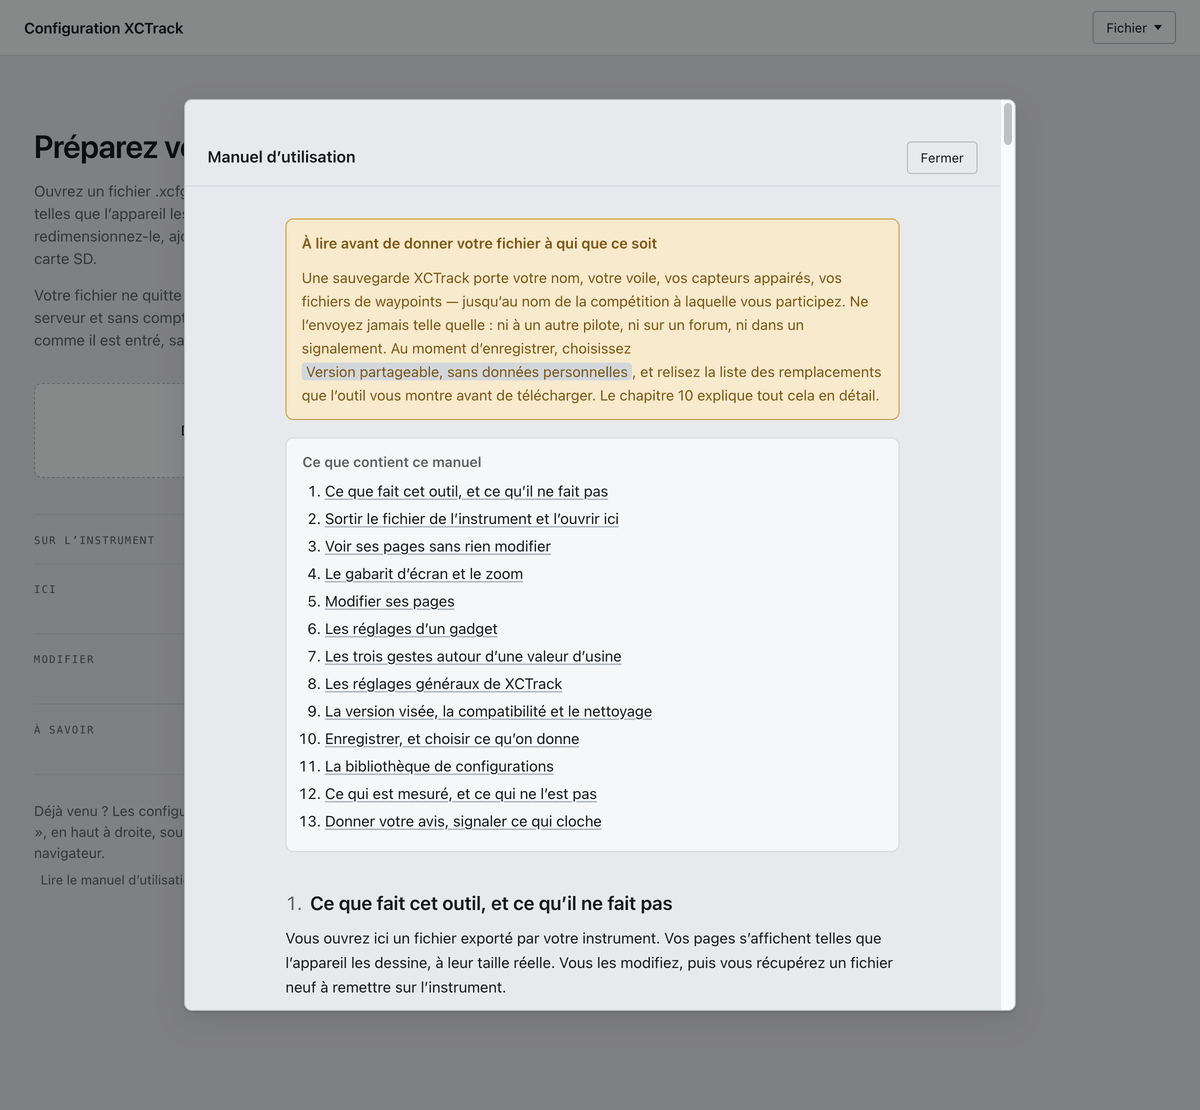
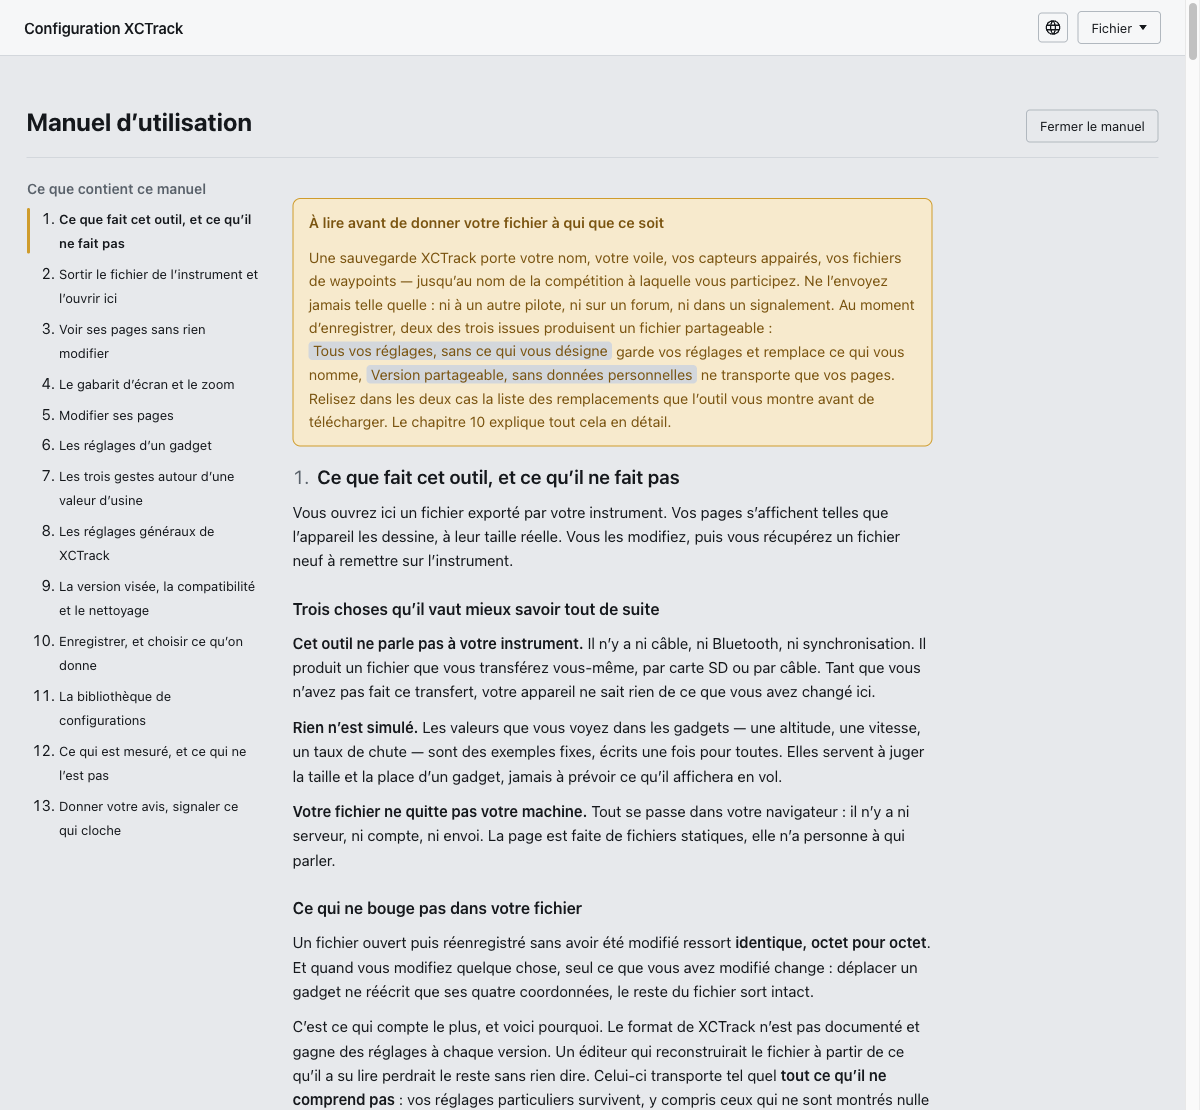
docs: le manuel n'est plus une modale, et son sommaire n'est plus en tête
La documentation le décrivait encore comme une boîte ouverte par-dessus l'écran. C'était
déjà faux depuis qu'il est passé en page ; la colonne du sommaire le rend faux deux fois,
puisque les cinq README annonçaient « puis le sommaire de ses treize chapitres » là où il
est désormais à côté du texte.

- `captures/manuel.png` refaite au cadrage de sa recette (1200 × 1110), qui gagne un
  avertissement : sous 1 024 points la colonne se replie et la capture ne montrerait plus
  ce qu'elle est censée montrer.
- Les cinq README : texte de remplacement et légende remis d'aplomb, recette mise à jour
  dans le seul README français, comme le veut le test qui interdit de la traduire.
- `docs-app/README.md` : la décision « fragment injecté dans une modale » dit maintenant
  pourquoi elle est devenue une page, et une section explique ce qui est le fil du
  fragment et ce qui n'existe qu'à l'écran — c'est le renseignement qui manquerait à qui
  chercherait `.manual__side` dans le HTML.
- Les cinq fragments : leur en-tête disait « boîte modale » et ne prévenait pas qu'un fil
  unique est ce qui fait marcher Ctrl+F.

Aucun texte du manuel lui-même n'est touché : rien de ce qu'il affirme n'a changé.

diff --git a/docs-app/manuel.fr.html b/docs-app/manuel.fr.html
@@ -2,8 +2,13 @@
   Le manuel d'utilisation, en français.
 
   Ce fichier est un FRAGMENT : ni <html>, ni <head>, ni <body>. Il est destiné à être
-  posé dans le corps d'une boîte modale de l'application, qui porte déjà son titre de
-  premier niveau. Le manuel commence donc à <h2>.
+  posé dans le corps d'une page de l'application, qui porte déjà son titre de premier
+  niveau. Le manuel commence donc à <h2>.
+
+  ⚠ C'est UN SEUL FIL : l'avertissement, le sommaire, puis les treize chapitres. C'est ce
+  qui fait que Ctrl+F trouve le manuel entier. Les deux colonnes de l'écran — le sommaire
+  à gauche, le texte à droite — sont construites à l'ouverture par src/ui/manualPage.ts :
+  ne les écrivez pas ici, elles figeraient la mise en page dans cinq fichiers.
 
   Pourquoi du HTML nu plutôt que du Markdown : le manuel s'ouvre DEPUIS l'application,
   qui se charge parfois en 3G au décollage. Du Markdown demanderait un analyseur —

diff --git a/docs-app/manuel.de.html b/docs-app/manuel.de.html
@@ -2,8 +2,10 @@
   Das Handbuch, auf Deutsch.
 
   Diese Datei ist ein FRAGMENT: ohne die Rahmenelemente einer ganzen Seite. Sie wird in
-  den Körper eines Dialogs der Anwendung gelegt, der die Überschrift erster Ebene bereits
-  trägt — das Handbuch beginnt deshalb bei <h2>.
+  den Körper einer Seite der Anwendung gelegt, die die Überschrift erster Ebene bereits
+  trägt — das Handbuch beginnt deshalb bei <h2>. Sie ist EIN einziger Faden — Warnhinweis,
+  Inhaltsverzeichnis, dann die dreizehn Kapitel —, und die zwei Spalten am Bildschirm baut
+  src/ui/manualPage.ts beim Öffnen auf.
 
   Die Quelle der Wahrheit ist `manuel.fr.html`: jede Änderung dort gehört auch hierher.
   Was in <span class="manual__ui"> steht, ist die genaue Beschriftung des Bildschirms und

diff --git a/docs-app/manuel.nl.html b/docs-app/manuel.nl.html
@@ -2,8 +2,10 @@
   De handleiding, in het Nederlands.
 
   Dit bestand is een FRAGMENT: geen <html>, geen <head>, geen <body>. Het wordt in het
-  lichaam van een modaal venster geplaatst dat de titel van het eerste niveau al draagt —
-  de handleiding begint dus bij <h2>.
+  lichaam van een pagina van de toepassing geplaatst die de titel van het eerste niveau al
+  draagt — de handleiding begint dus bij <h2>. Het is ÉÉN draad — waarschuwing,
+  inhoudsopgave, dan de dertien hoofdstukken — en de twee kolommen op het scherm worden bij
+  het openen opgebouwd door src/ui/manualPage.ts.
 
   `manuel.fr.html` is de bron van waarheid: dit bestand is er een vertaling van, met
   dezelfde structuur, dezelfde ankers en dezelfde klassen. Wat tussen

diff --git a/docs-app/manuel.es.html b/docs-app/manuel.es.html
@@ -2,7 +2,9 @@
   El manual de uso, en español.
 
   Este archivo es un FRAGMENTO: sin etiquetas html, head ni body. Se inserta en el cuerpo de
-  una ventana modal que ya lleva su título de primer nivel, así que el manual empieza en <h2>.
+  una página de la aplicación que ya lleva su título de primer nivel, así que el manual
+  empieza en <h2>. Es UN SOLO hilo — el aviso, el índice y luego los trece capítulos — y las
+  dos columnas de la pantalla las construye src/ui/manualPage.ts al abrir.
 
   La fuente de verdad es `manuel.fr.html`: misma estructura, mismas anclas, mismas clases.
 

diff --git a/docs-app/manuel.en.html b/docs-app/manuel.en.html
@@ -2,7 +2,9 @@
   The user manual, in English.
 
   This file is a FRAGMENT: no <html>, no <head>, no <body>. It is dropped into the body of
-  a modal dialog that already carries the top-level title, so the manual starts at <h2>.
+  an application page that already carries the top-level title, so the manual starts at
+  <h2>. It is a SINGLE thread — warning, contents, then the thirteen chapters — and the
+  two columns on screen are built at load time by src/ui/manualPage.ts.
 
   The source of truth is `manuel.fr.html`: same structure, same anchor ids, same classes.
 

diff --git a/docs-app/README.md b/docs-app/README.md
@@ -22,8 +22,11 @@ charge parfois en 3G au décollage. Trois formats étaient possibles :
 - **Une page HTML autonome ouverte dans un autre onglet** — il faudrait l'ajouter aux entrées
   de `vite.config.ts` ou passer par un répertoire `public/`, et le pilote quitterait
   l'application au moment précis où il a besoin d'aide.
-- **Un fragment HTML injecté dans une modale** — retenu. Pas d'analyseur, pas d'entrée de
-  construction supplémentaire, et le pilote garde son fichier ouvert derrière la boîte.
+- **Un fragment HTML injecté dans une vue de l'application** — retenu. Pas d'analyseur, pas
+  d'entrée de construction supplémentaire, et le pilote garde son fichier ouvert derrière.
+  Ce fut d'abord une modale ; treize chapitres ne se lisent pas dans une boîte, et c'est
+  aujourd'hui une **page** : le défilement revient au navigateur, donc la position se garde,
+  la recherche du navigateur fonctionne, et l'impression aussi.
 
 **Le poids.** Le fragment est du texte : il se compresse comme du texte. Importé en `?raw`
 depuis un module chargé par `import()`, il part dans un morceau à part que Vite n'émet qu'au
@@ -32,8 +35,22 @@ les catalogues de langue et les cinq modules déjà branchés à la demande dans
 
 ## Le manuel commence à `<h2>`
 
-La boîte modale porte le `<h1>`. Un second premier niveau dans le fragment casserait la
-navigation par titres d'un lecteur d'écran, qui est le sommaire réel de ce document.
+La page porte le `<h1>`. Un second premier niveau dans le fragment casserait la navigation
+par titres d'un lecteur d'écran, qui est le sommaire réel de ce document.
+
+## Le fil du fragment, les deux colonnes de l'écran
+
+Le fragment est **un seul fil** : l'avertissement, le sommaire, puis les treize chapitres.
+C'est ce qui fait que `Ctrl+F` trouve le manuel entier et que l'impression sort d'un bloc.
+
+À l'ouverture, `src/ui/manualPage.ts` range ce fil en trois boîtes — `.manual__lead`
+(l'avertissement), `.manual__side` (le sommaire) et `.manual__text` (les chapitres) — que
+`manuel.css` met en deux colonnes au-dessus de 64 rem : le sommaire à gauche, collant, avec
+le chapitre courant marqué ; le texte à droite, borné à 640 px. En dessous, tout retombe
+dans le fil, dans l'ordre du document, et une pastille fixe ramène au sommaire.
+
+**Ces trois classes ne s'écrivent jamais dans le HTML** : elles n'existent qu'à l'écran. Un
+fragment qui les porterait figerait la mise en page dans cinq fichiers de mille lignes.
 
 ## Les classes du fragment
 
@@ -43,7 +60,7 @@ raison :
 | Classe | Usage |
 |---|---|
 | `.manual` | La racine du fragment. **Toute** règle de style descend d'elle. |
-| `.manual__toc` | Le sommaire, en tête. Des liens d'ancre, pas un accordéon : `Ctrl+F` doit trouver le manuel entier. |
+| `.manual__toc` | Le sommaire, en tête du fragment — l'écran le déplace ensuite dans sa colonne. Des liens d'ancre, pas un accordéon : `Ctrl+F` doit trouver le manuel entier. |
 | `.manual__rank` | Le numéro d'un chapitre, devant son titre. |
 | `.manual__ui` | Un intitulé **recopié de l'écran**. Pas du gras, pas du code : un fond discret qui dit « cherchez ce mot-là à l'écran ». |
 | `.manual__file` | Un nom de fichier ou une extension, en chasse fixe — le pilote va le comparer caractère par caractère. |

diff --git a/README.md b/README.md
@@ -408,27 +408,31 @@ montré avant le téléchargement, pas après.*
                réelle ne doit apparaître ici : le vérifier à chaque reprise.
 -->
 
-![Le manuel d'utilisation ouvert par-dessus l'écran d'accueil : un avertissement encadré
-« À lire avant de donner votre fichier à qui que ce soit », puis le sommaire de ses
-treize chapitres.](captures/manuel.png)
+![Le manuel d'utilisation en pleine page : à gauche le sommaire de ses treize chapitres,
+à droite l'avertissement encadré « À lire avant de donner votre fichier à qui que ce
+soit », puis le début du chapitre 1.](captures/manuel.png)
 
-*Le manuel s'ouvre par-dessus l'écran, sans rien quitter. Il commence par
-l'avertissement plutôt que par la visite guidée.*
+*Le manuel occupe une page de la largeur de l'éditeur. Il commence par l'avertissement
+plutôt que par la visite guidée, et son sommaire reste à gauche pendant toute la lecture
+— avec le chapitre où l'on se trouve marqué d'un filet.*
 
 <!--
   REFAIRE CETTE CAPTURE — captures/manuel.png (1200 × 1110)
-  Écran ...... la modale « Manuel d'utilisation », en haut de son contenu.
+  Écran ...... la page « Manuel d'utilisation », en haut de son contenu.
   Fichier .... aucun — c'est l'écran d'accueil, avant tout dépôt de fichier. Rien à
                anonymiser, donc, et rien à révéler.
-  État ....... l'encadré « À lire avant de donner votre fichier à qui que ce soit », le
-               sommaire des treize chapitres entier, et le début du chapitre 1 ; aucun
-               bouton au focus (le contour bleu de « Fermer » se voit sinon).
+  État ....... le sommaire des treize chapitres entier dans sa colonne de gauche, avec le
+               filet ambre sur le chapitre 1 ; à droite l'encadré « À lire avant de donner
+               votre fichier à qui que ce soit » et le début du chapitre 1 ; aucun bouton
+               au focus (le contour bleu de « Fermer le manuel » se voit sinon).
+               ⚠ 1 200 points de large : sous 1 024, la colonne se replie dans le fil et
+               la capture ne montrerait plus le sommaire latéral.
   Refaire .... npm run dev -- --port 5179, puis « Lire le manuel d'utilisation » en bas
                de l'accueil — ou, un fichier ouvert, menu « Fichier » puis
                « Manuel d'utilisation… ».
-  Cadrage .... viewport de 1200 × 1110 points CSS : la boîte coupe alors juste après le
-               premier paragraphe du chapitre 1, ce qui se lit comme une page qui
-               continue et non comme une phrase tranchée.
+  Cadrage .... viewport de 1200 × 1110 points CSS : la page coupe alors au milieu du
+               chapitre 1, ce qui se lit comme une page qui continue et non comme une
+               phrase tranchée.
 
   CAPTURE AJOUTÉE — le manuel est arrivé après l'écriture des cinq recettes d'origine et
   n'en avait aucune. C'est le premier écran qu'un lecteur du README voudra reconnaître :

diff --git a/README.de.md b/README.de.md
@@ -290,12 +290,13 @@ dem neuen und dem Grund der Ersetzung.](captures/enregistrer-et-partager.png)
 *Beim Speichern: was die Datei verrät und was ersetzt werden kann — gezeigt vor dem
 Herunterladen, nicht danach.*
 
-![Das Handbuch über dem Startbildschirm geöffnet: ein eingerahmter Warnhinweis „Zu lesen,
-bevor Sie Ihre Datei irgendjemandem geben“, dann das Inhaltsverzeichnis seiner dreizehn
-Kapitel.](captures/manuel.png)
+![Das Handbuch als ganze Seite: links das Inhaltsverzeichnis seiner dreizehn Kapitel,
+rechts ein eingerahmter Warnhinweis „Zu lesen, bevor Sie Ihre Datei irgendjemandem geben“,
+dann der Anfang von Kapitel 1.](captures/manuel.png)
 
-*Das Handbuch öffnet sich über dem Bildschirm, ohne dass man irgendetwas verlässt. Es
-beginnt mit dem Warnhinweis statt mit der Führung.*
+*Das Handbuch nimmt eine Seite in der Breite des Editors ein. Es beginnt mit dem
+Warnhinweis statt mit der Führung, und sein Inhaltsverzeichnis bleibt während der ganzen
+Lektüre links stehen — mit einem Strich bei dem Kapitel, in dem man sich befindet.*
 
 ## Was es nicht kann, und was ungewiss bleibt
 

diff --git a/README.nl.md b/README.nl.md
@@ -282,12 +282,13 @@ nieuwe, en de reden van de vervanging.](captures/enregistrer-et-partager.png)
 *Bij het opslaan: wat het bestand prijsgeeft en wat kan worden vervangen — getoond vóór de
 download, niet erna.*
 
-![De handleiding geopend boven op het startscherm: een omkaderde waarschuwing ‘Lees dit
-voordat u uw bestand aan wie dan ook geeft’, en daarna de inhoudsopgave van de dertien
-hoofdstukken.](captures/manuel.png)
+![De handleiding als volledige pagina: links de inhoudsopgave van de dertien
+hoofdstukken, rechts een omkaderde waarschuwing ‘Lees dit voordat u uw bestand aan wie dan
+ook geeft’, en daarna het begin van hoofdstuk 1.](captures/manuel.png)
 
-*De handleiding opent boven op het scherm, zonder iets te verlaten. Ze begint met de
-waarschuwing en niet met de rondleiding.*
+*De handleiding beslaat een pagina zo breed als de editor. Ze begint met de waarschuwing
+en niet met de rondleiding, en haar inhoudsopgave blijft tijdens het hele lezen links
+staan — met een streepje bij het hoofdstuk waar u bent.*
 
 ## Wat het niet kan, en wat onzeker blijft
 

diff --git a/README.es.md b/README.es.md
@@ -277,12 +277,13 @@ nuevo, y la razón del reemplazo.](captures/enregistrer-et-partager.png)
 *Al guardar, lo que el archivo revela y lo que puede reemplazarse — mostrado antes de la
 descarga, no después.*
 
-![El manual de uso abierto sobre la pantalla de inicio: un aviso enmarcado «Léalo antes de
-dar su archivo a nadie», y después el índice de sus trece
-capítulos.](captures/manuel.png)
+![El manual de uso a página completa: a la izquierda el índice de sus trece capítulos, a
+la derecha un aviso enmarcado «Léalo antes de dar su archivo a nadie», y después el
+comienzo del capítulo 1.](captures/manuel.png)
 
-*El manual se abre encima de la pantalla, sin salir de nada. Empieza por el aviso en lugar
-de por la visita guiada.*
+*El manual ocupa una página del ancho del editor. Empieza por el aviso en lugar de por la
+visita guiada, y su índice permanece a la izquierda durante toda la lectura — con un filete
+en el capítulo en el que uno se encuentra.*
 
 ## Lo que no sabe hacer, y lo que sigue siendo incierto
 

diff --git a/README.en.md b/README.en.md
@@ -269,11 +269,13 @@ one, and the reason for the replacement.](captures/enregistrer-et-partager.png)
 *When you save, what the file reveals and what can be replaced — shown before the
 download, not after.*
 
-![The user manual open over the welcome screen: a boxed warning “Read this before giving
-your file to anyone”, then the contents of its thirteen chapters.](captures/manuel.png)
+![The user manual as a full page: its thirteen chapters listed on the left, and on the
+right a boxed warning “Read this before giving your file to anyone”, then the beginning of
+chapter 1.](captures/manuel.png)
 
-*The manual opens over the screen, without leaving anything. It starts with the warning
-rather than with the guided tour.*
+*The manual takes up a page as wide as the editor. It starts with the warning rather than
+with the guided tour, and its contents stay on the left throughout the reading — with the
+chapter you are in marked by a rule.*
 
 ## What it cannot do, and what remains uncertain
 
